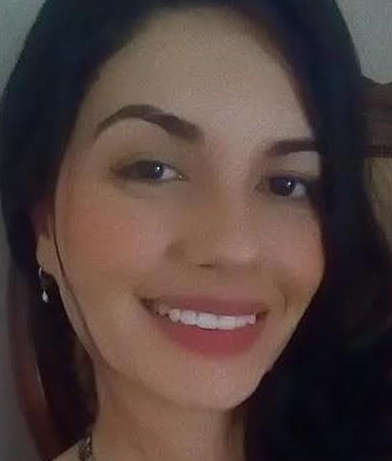
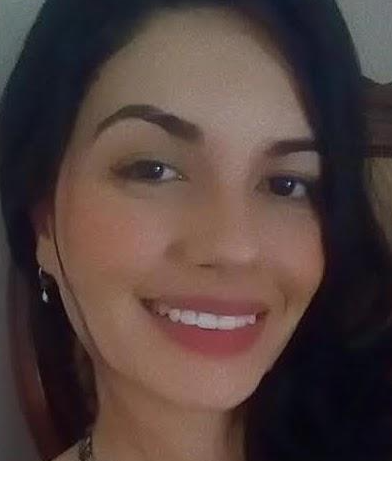
Conclusão

diff --git a/index.html b/index.html
@@ -82,7 +82,7 @@
                         </div>
 
                         <div class="estudante-div">
-                            <img class="estudante-imagem" src="henry.png" alt="foto do henry">
+                            <img class="estudante-imagem" src="foto-thalles-alterado.png" alt="foto do henry">
                             <h3 class="estudante-nome">Henry</h3>
                             <img class="estudante-icone" src="aplicativo-movel.png" alt="Ícone de celular">
                             <a href="https://github.com/henrypedroso"><img class="estudante-icone" src="github (2).png" alt="Ícone do github"></a>
